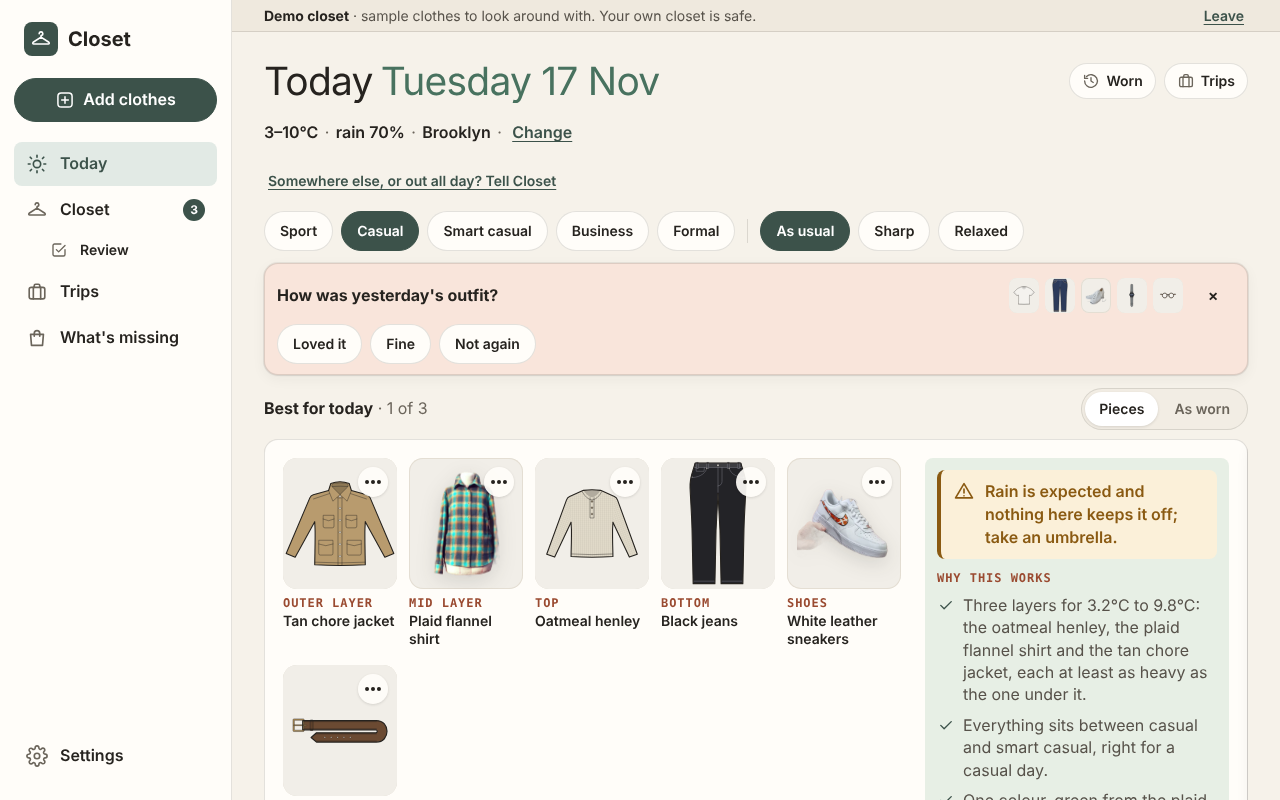
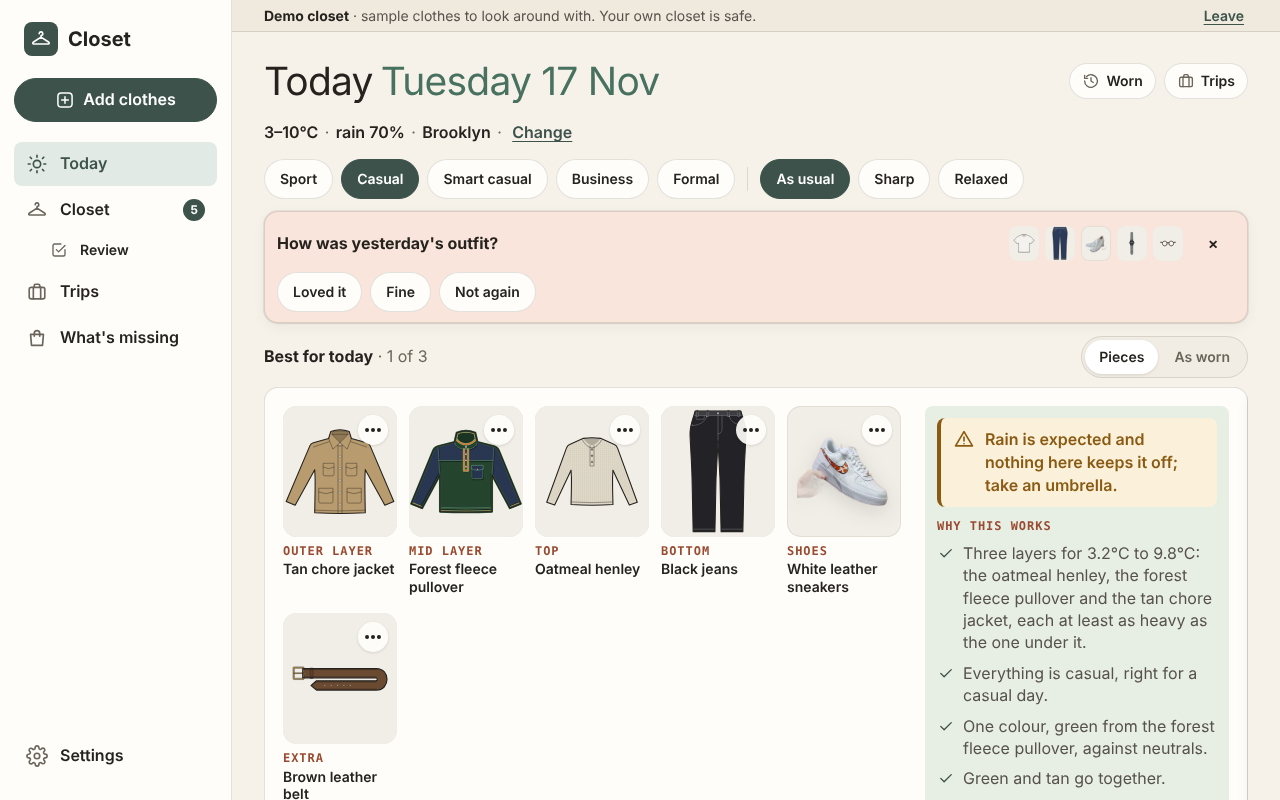
The day note is typed behind Change and shown as one line, so the outfit stays on the first screen
Claude-Session: https://claude.ai/code/session_015h2NbQsiHCj1tAUHZMkyWG

Changed region(s): [[0.1875, 0.1875, 0.9688, 1.0], [0.2188, 0.8125, 0.3125, 1.0]]

diff --git a/frontend/src/screens/Today.tsx b/frontend/src/screens/Today.tsx
@@ -323,21 +323,20 @@ export function TodayScreen({ itemId, wide }: { itemId: string | null; wide: boo
       {header}
 
       <DayLine phase={phase} editing={editDay} locked={locked} onEdit={() => setEditDay(!editDay)} />
-      {phase.kind !== 'needs-day' && (
-        <DayNoteRow note={ctx?.note ?? null} known={ctx !== null} locked={locked}
-          onChanged={(answer) => {
-            // a place in the note wins over temperatures typed earlier today, as a place chosen under Change does
+      {(editDay || phase.kind === 'needs-day') && (
+        <DayPanel phase={phase} typed={typed} locked={locked} offline={offline} toast={toast}
+          onNote={(answer) => {
+            // a place in the note wins over temperatures typed earlier today, as a place chosen here does
             if (answer.note?.active && answer.note.place) {
               kept.setTyped(null);
               setTyped(null);
             }
             const occasion = answer.note?.active ? answer.note.occasion : null;
             if (occasion && (OCCASIONS as readonly string[]).includes(occasion)) choose({ ...choice, occasion });
+            if (answer.message) toast(answer.message);
+            setEditDay(false);
             setAttempt((n) => n + 1);
-          }} />
-      )}
-      {(editDay || phase.kind === 'needs-day') && (
-        <DayPanel phase={phase} typed={typed} locked={locked} offline={offline} toast={toast}
+          }}
           onTyped={setDay}
           onClose={phase.kind === 'needs-day' ? undefined : () => setEditDay(false)}
           onPlace={() => {
@@ -474,6 +473,13 @@ function DayLine({ phase, editing, locked, onEdit }: { phase: Phase; editing: bo
           </span>
         )}
       </p>
+      {c?.note && (
+        <p className="today-note-line" data-testid="day-note" title={c.note.text}>
+          {!c.note.active && <span className="muted">Coming up: </span>}
+          {/* the weather line already names an active note's place */}
+          {(c.note.active && c.note.place && c.place ? c.note.words.slice(1) : c.note.words).join(' · ')}
+        </p>
+      )}
       {c?.old && <p className="today-day-old" role="note">{c.message || 'This is an older forecast: the weather service could not be reached.'}</p>}
     </section>
   );
@@ -482,14 +488,12 @@ function DayLine({ phase, editing, locked, onEdit }: { phase: Phase; editing: bo
 const DAY_NOTE_MAX = 300;
 
 /**
- * The day in the owner's words: one sentence ("In Lisbon until Friday", "at a match today, outside from noon to six")
- * that Claude reads for the place, the days and the hours outside. Shown back as what Closet took from it.
+ * The day in the owner's words, first behind "Change": one sentence ("In Lisbon until Friday", "at a match today,
+ * outside from noon to six") that Claude reads for the place, the days and the hours outside. What Closet took from
+ * it is shown back under the weather line; here it can be said another way or cleared.
  */
-function DayNoteRow({ note, known, locked, onChanged }: {
-  note: DayNote | null; known: boolean; locked: boolean; onChanged(answer: DayAnswer): void;
-}) {
-  const [open, setOpen] = useState(false);
-  const [text, setText] = useState('');
+function DayNoteForm({ note, locked, onNote }: { note: DayNote | null; locked: boolean; onNote(answer: DayAnswer): void }) {
+  const [text, setText] = useState(note?.text ?? '');
   const [busy, setBusy] = useState(false);
   const [message, setMessage] = useState<string | null>(null);
 
@@ -498,10 +502,8 @@ function DayNoteRow({ note, known, locked, onChanged }: {
     setMessage(null);
     try {
       const answer = await call();
-      setMessage(answer.message);
-      if (answer.saved === false) return;
-      setOpen(false);
-      onChanged(answer);
+      if (answer.saved === false) setMessage(answer.message);
+      else onNote(answer);
     } catch (e) {
       setMessage((e as Error).message);
     } finally {
@@ -515,61 +517,28 @@ function DayNoteRow({ note, known, locked, onChanged }: {
   }
 
   return (
-    <section className="today-note" aria-label="Your day">
-      {!open && note && (
-        <p className="today-note-line" data-testid="day-note">
-          <span className="today-note-words">
-            {!note.active && <span className="muted">Coming up: </span>}
-            {note.words.join(' · ')}
-          </span>
-          <button className="btn btn-link" disabled={locked || busy} title={locked ? OFFLINE_TITLE : undefined}
-            onClick={() => {
-              setText(note.text);
-              setMessage(null);
-              setOpen(true);
-            }}>
-            Change
-          </button>
-          <button className="btn btn-link" disabled={locked || busy} title={locked ? OFFLINE_TITLE : undefined}
-            aria-label="Clear the note about your day" onClick={() => void run(api.clearDay)}>
-            Clear
-          </button>
-        </p>
-      )}
-      {!open && !note && known && (
-        <button className="btn btn-link today-note-add" disabled={locked} title={locked ? OFFLINE_TITLE : undefined}
-          onClick={() => {
-            setText('');
-            setMessage(null);
-            setOpen(true);
-          }}>
-          Somewhere else, or out all day? Tell Closet
-        </button>
-      )}
-      {open && (
-        <form className="today-note-form" onSubmit={submit}>
-          <label className="field">
-            <span>What's different about today, or the days ahead?</span>
-            <input type="text" value={text} maxLength={DAY_NOTE_MAX} autoFocus disabled={busy} data-testid="day-note-text"
-              placeholder="In Lisbon until Friday. Or: at a match today, outside from noon to six."
-              onChange={(e) => setText(e.target.value)} />
-          </label>
-          <p className="hint">Claude reads this one sentence to find the place and the hours. Nothing from your closet is sent.</p>
-          <div className="today-note-actions">
-            <Button variant="primary" small type="submit" disabled={busy || !text.trim()}>{busy ? 'Reading…' : 'Save'}</Button>
-            <Button small disabled={busy} onClick={() => setOpen(false)}>Cancel</Button>
-          </div>
-        </form>
-      )}
+    <form className="today-note-form" onSubmit={submit}>
+      <label className="field">
+        <span>Say it in a sentence</span>
+        <input type="text" value={text} maxLength={DAY_NOTE_MAX} disabled={busy || locked} data-testid="day-note-text"
+          placeholder="In Lisbon until Friday. Or: at a match today, outside from noon to six."
+          onChange={(e) => setText(e.target.value)} />
+      </label>
+      <p className="hint">Claude reads this one sentence to find the place and the hours. Nothing from your closet is sent. Your home place stays as it is.</p>
+      {note && <p className="today-note-now" data-testid="day-note-now">Now: {note.active ? '' : 'coming up, '}{note.words.join(' · ')}</p>}
+      <div className="today-note-actions">
+        <Button variant="primary" small type="submit" disabled={busy || locked || !text.trim()}>{busy ? 'Reading…' : 'Save'}</Button>
+        {note && <Button small disabled={busy || locked} onClick={() => void run(api.clearDay)}>Clear the note</Button>}
+      </div>
       {message && <p className="today-note-message" role="status" data-testid="day-note-message">{message}</p>}
-    </section>
+    </form>
   );
 }
 
 /** Behind "Change": where you are (search or the browser's location), or today's temperatures typed by hand. */
-function DayPanel({ phase, typed, locked, offline, toast, onTyped, onClose, onPlace }: {
+function DayPanel({ phase, typed, locked, offline, toast, onTyped, onClose, onPlace, onNote }: {
   phase: Phase; typed: TypedDay | null; locked: boolean; offline: boolean; toast: (m: string, k?: 'ok' | 'error') => void;
-  onTyped(t: Omit<TypedDay, 'day'> | null): void; onClose?: () => void; onPlace(): void;
+  onTyped(t: Omit<TypedDay, 'day'> | null): void; onClose?: () => void; onPlace(): void; onNote(answer: DayAnswer): void;
 }) {
   const [settings, setSettings] = useState<Settings | null>(null);
   useEffect(() => {
@@ -584,7 +553,13 @@ function DayPanel({ phase, typed, locked, offline, toast, onTyped, onClose, onPl
   return (
     <Card as="section" className="today-day-panel" id="today-day-panel" aria-labelledby="day-title">
       {phase.kind === 'needs-day' && <p className="today-day-why">{phase.message}</p>}
-      <h2 id="day-title">Where are you?</h2>
+      {phase.kind === 'ready' && (
+        <>
+          <h2 id="day-note-title">Somewhere else, or out all day?</h2>
+          <DayNoteForm note={phase.answer.context.note ?? null} locked={locked} onNote={onNote} />
+        </>
+      )}
+      <h2 id="day-title" className={phase.kind === 'ready' ? 'today-day-next' : undefined}>Where are you?</h2>
       <WhereYouAre inline place={settings ? settings.place : undefined} home={settings?.home_place} offline={offline} toast={toast}
         onChange={(s) => {
           setSettings(s);

diff --git a/frontend/e2e/22-day.spec.ts b/frontend/e2e/22-day.spec.ts
@@ -33,24 +33,27 @@ test.describe('the day in your words', () => {
     await expect(page.getByTestId('current-outfit').getByTestId('piece').first()).toBeVisible();
     await expect(page.getByTestId('day-note')).toHaveCount(0);
 
-    // a sentence with nothing in it is said so, and nothing is kept
-    await page.getByRole('button', { name: 'Somewhere else, or out all day? Tell Closet' }).click();
-    const box = page.getByLabel("What's different about today, or the days ahead?");
-    await expect(box).toBeFocused();
+    // the way in is behind Change, so an ordinary day's first screen is as it was
+    const change = page.getByTestId('day-line').getByRole('button', { name: 'Change' });
+    await change.click();
+    await expect(page.getByRole('heading', { name: 'Somewhere else, or out all day?' })).toBeVisible();
+    const box = page.getByLabel('Say it in a sentence');
     await expect(page.getByText('Nothing from your closet is sent.')).toBeVisible();
+
+    // a sentence with nothing in it is said so, and nothing is kept
     await box.fill('Hello there');
-    await page.getByRole('button', { name: 'Save' }).click();
+    await page.getByRole('button', { name: 'Save', exact: true }).click();
     await expect(page.getByTestId('day-note-message')).toContainText("couldn't find anything about your day");
     await expect(page.getByTestId('day-note')).toHaveCount(0);
 
     await box.fill('In Lisbon for four days, outside walking the city from noon to six');
-    await page.getByRole('button', { name: 'Save' }).click();
+    await page.getByRole('button', { name: 'Save', exact: true }).click();
     const note = page.getByTestId('day-note');
-    await expect(note).toContainText('Lisbon, Portugal');
     await expect(note).toContainText('outside noon to 6pm');
-    await expect(note).toContainText('walking the city');
+    await expect(note).not.toContainText('Lisbon');   // the weather line names the place
     await expect(note).toContainText('until ');
-    await expect(page.getByTestId('day-note-message')).toHaveCount(0);
+    await expect(note).toHaveAttribute('title', 'In Lisbon for four days, outside walking the city from noon to six');
+    await expect(box).toHaveCount(0);   // the panel closed
 
     // Today now dresses for Lisbon: what its hours feel like, the rain and the wind
     await expect(day).toContainText('Lisbon');
@@ -59,24 +62,32 @@ test.describe('the day in your words', () => {
     await expect(day).toContainText('windy');
     await expect(page.getByTestId('no-weather')).toHaveCount(0);
     await expect(page.getByTestId('current-outfit').getByTestId('piece').first()).toBeVisible();
+    // the note is one line, however long: it never pushes the outfit down by more than that
+    expect((await note.boundingBox())!.height).toBeLessThanOrEqual(24);
     expect(await axeViolations(page)).toEqual([]);
     await page.screenshot({ path: resolve(SHOTS, 'today-day-note.png') });
 
     // it is still there after a reload, and home's place in Settings is untouched
     await page.reload();
-    await expect(page.getByTestId('day-note')).toContainText('Lisbon, Portugal');
+    await expect(page.getByTestId('day-note')).toContainText('outside noon to 6pm');
+    await expect(day).toContainText('Lisbon');
     const settings = await (await page.request.get(backend.url + '/api/settings')).json();
     expect(settings.place.name).toContain('New York');
 
-    // Change opens the sentence again; a wedding makes the day formal
-    await page.getByTestId('day-note').getByRole('button', { name: 'Change' }).click();
+    // Change opens the sentence again with what Closet took from it; a wedding makes the day formal
+    await change.click();
     await expect(box).toHaveValue('In Lisbon for four days, outside walking the city from noon to six');
+    await expect(page.getByTestId('day-note-now')).toContainText('Lisbon, Portugal');
+    await expect(page.getByTestId('day-note-now')).toContainText('walking the city');
+    expect(await axeViolations(page)).toEqual([]);
+    await page.screenshot({ path: resolve(SHOTS, 'today-day-note-change.png') });
     await box.fill('A wedding in Lisbon today');
-    await page.getByRole('button', { name: 'Save' }).click();
+    await page.getByRole('button', { name: 'Save', exact: true }).click();
     await expect(page.getByTestId('day-note')).toContainText('a wedding');
     await expect(page.getByRole('group', { name: 'Occasion' }).getByRole('button', { name: 'Formal', pressed: true })).toBeVisible();
 
-    await page.getByRole('button', { name: 'Clear the note about your day' }).click();
+    await change.click();
+    await page.getByRole('button', { name: 'Clear the note' }).click();
     await expect(page.getByTestId('day-note')).toHaveCount(0);
     await expect(day).toContainText('a mild day');
   });

diff --git a/frontend/src/screens/Today.css b/frontend/src/screens/Today.css
@@ -31,18 +31,19 @@
 .today-day-change .btn-link { min-height: var(--tap); padding: 0 4px; font-size: var(--text-md); }
 .today-day-old { margin: 0 0 var(--space-2); color: var(--warn); font-size: var(--text-sm); }
 
-/* the day in the owner's words: what Closet took from the note, or the way in to write one */
-.today-note { margin: 0 0 var(--space-2); min-width: 0; }
-.today-note-line { margin: 0; display: flex; flex-wrap: wrap; align-items: center; column-gap: var(--space-2); font-size: var(--text-sm); }
-.today-note-words { font-weight: var(--weight-label); min-width: 0; overflow-wrap: anywhere; }
-.today-note .btn-link { min-height: var(--tap); padding: 0 4px; font-size: var(--text-sm); }
-.today-note-add { padding-left: 0; }
-.today-note-form { max-width: 40rem; margin-bottom: var(--space-2); }
+/* the day in the owner's words: what Closet took from the note, in one quiet line under the weather */
+.today-note-line {
+  margin: -6px 0 var(--space-2); font-size: var(--text-sm); color: var(--ink-2);
+  white-space: nowrap; overflow: hidden; text-overflow: ellipsis;
+}
+.today-note-form { max-width: 40rem; }
 .today-note-form .field { margin-bottom: var(--space-1); }
 .today-note-form .field input { width: 100%; }
 .today-note-form .hint { margin: 0 0 var(--space-2); }
-.today-note-actions { display: flex; gap: var(--space-2); }
-.today-note-message { margin: 0 0 var(--space-2); font-size: var(--text-sm); color: var(--ink-2); }
+.today-note-now { margin: 0 0 var(--space-2); font-size: var(--text-sm); font-weight: var(--weight-label); overflow-wrap: anywhere; }
+.today-note-actions { display: flex; flex-wrap: wrap; gap: var(--space-2); }
+.today-note-message { margin: var(--space-2) 0 0; font-size: var(--text-sm); color: var(--ink-2); }
+.today-day-next { margin-top: var(--space-5); }
 
 .today-day-panel { padding: var(--space-4); margin-bottom: var(--space-4); max-width: 40rem; }
 .today-day-panel h2 { font-size: var(--text-lg); margin-bottom: var(--space-1); }

diff --git a/README.md b/README.md
@@ -118,17 +118,17 @@ thermometer ("feels like 0–9°C"), when rain falls and how hard ("rain 2pm to
 they matter. Today dresses you for that: what it feels like in those hours,
 and rain only if it falls in them.
 
-**Somewhere else, or out all day?** Under the weather, tap **Somewhere else,
-or out all day? Tell Closet** and type it in a sentence: "In Lisbon until
-Friday", or "At a match today, outside from noon to six". Claude reads that
-one sentence (nothing from your closet is sent with it) and Closet shows what
-it took from it: the place, until when, the hours you are outside. While the
-note holds, Today uses that place's weather and those hours, and picks the
-occasion if the sentence made one clear (a wedding is formal). Your home place
-in Settings is not changed, and the note ends by itself after its last day;
-**Clear** ends it now and **Change** lets you say it another way. A note about
-days still ahead ("in Rome this weekend") waits, marked **Coming up**, until
-its first day. This needs Claude to be reachable (your Claude plan, or the API
+**Somewhere else, or out all day?** Tap **Change** beside the weather and,
+under **Somewhere else, or out all day?**, type it in a sentence: "In Lisbon
+until Friday", or "At a match today, outside from noon to six". Claude reads
+that one sentence (nothing from your closet is sent with it) and Closet shows
+what it took from it in a small line under the weather: until when, the hours
+you are outside, what for. While the note holds, Today uses that place's
+weather and those hours, and picks the occasion if the sentence made one clear
+(a wedding is formal). Your home place in Settings is not changed, and the note
+ends by itself after its last day; behind **Change** you can say it another way
+or tap **Clear the note**. A note about days still ahead ("in Rome this
+weekend") waits, marked **Coming up**, until its first day. This needs Claude to be reachable (your Claude plan, or the API
 key when it is switched on in Settings, which is used first for this); the
 demo closet never asks Claude, so the note can only be written from your own
 closet.

diff --git a/docs/DECISIONS.md b/docs/DECISIONS.md
@@ -544,6 +544,7 @@ being mended, rated dislike); today's engine stays as the fallback when Claude c
 | A place that cannot be found keeps the note without one and says so; when Claude cannot be asked, the limit is reached or nothing about the day was found, the note before stays and the page says why | The hours and the occasion are still worth having. Nothing is lost by trying. |
 | The sentence goes to Claude on a new `styling` role (Opus), through the API key first when it is switched on, else the plan; counted against the monthly limit with purpose `read_day`. The demo closet never asks | The owner chose Opus through the API for the outfit intelligence; the same role will choose the outfits. The demo stays free of any call to Claude, as everywhere else. |
 | The note's occasion is used when the request names none, and the page selects it when the note is saved; the owner can still choose another | A wedding should not need two taps, and the owner's own choice still wins. |
+| The sentence is typed behind **Change**, first in that panel, and a note that holds is one small line under the weather, cut short with "…" when it is long (the whole of it is behind Change) | A row of its own under the weather pushed **I'm wearing this** off the first phone screen (the browser tests for Today caught it). Behind Change an ordinary day's screen is exactly as it was, and a note costs one line of 20 px. |
 | The dot between the parts of Today's weather line now follows each part instead of leading it | The line is longer now and wraps on a phone; a wrapped line no longer starts with a dot. |
 
 ### One Add for clothes and shoes (17 November, asked for by the owner)
